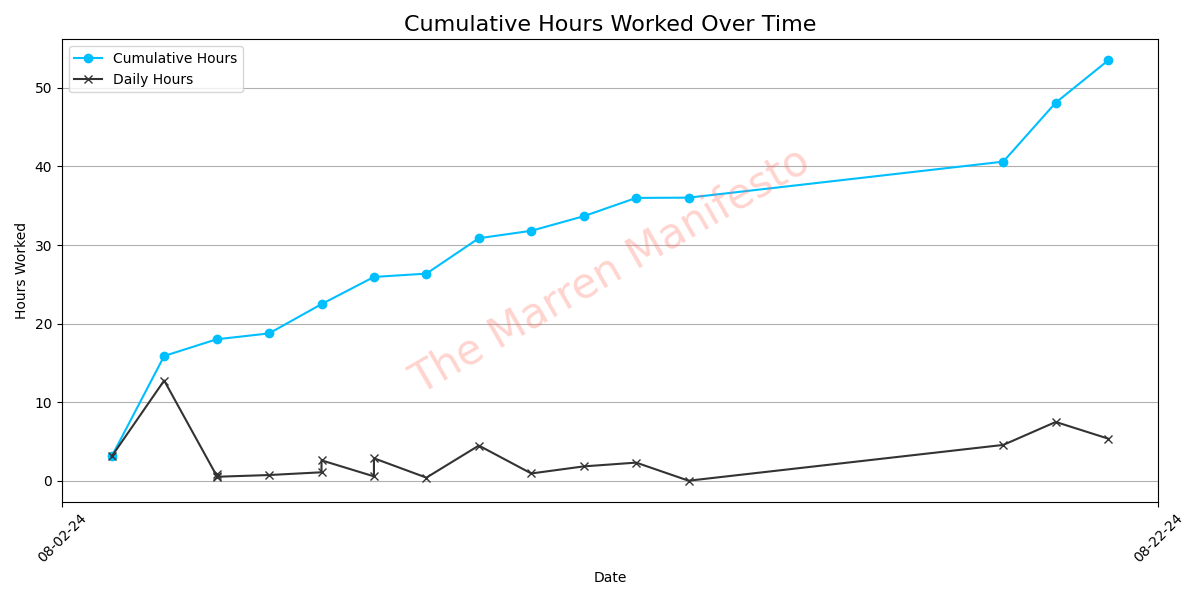
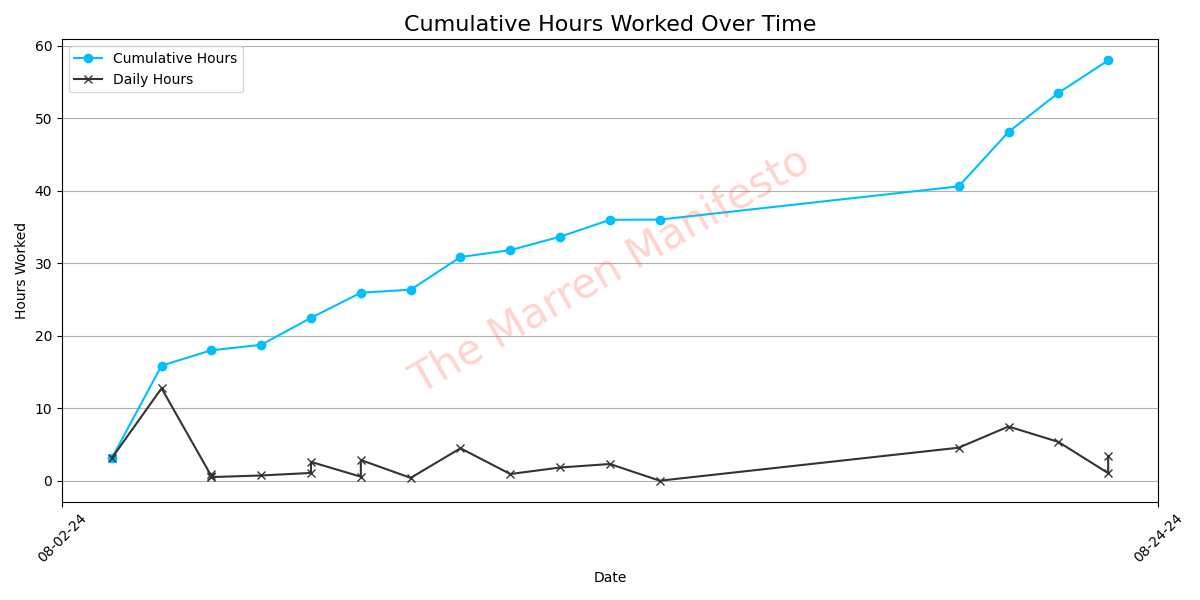
Log some hours for Friday, 8-23-24

diff --git a/index.html b/index.html
@@ -70,7 +70,7 @@
         <section class="flex flex-column margin-vertical">
             <header class="flex flex-column margin-vertical">
                 <h2>My Software Development Progress</h2>
-                <p>41/10,000 hours (0.41%)</p>
+                <p>59/10,000 hours (0.59%)</p>
             </header>
             <img src="resources/media/cumulative-hours-plot.png", alt="Progress Graph" loading="lazy">
         </section>
